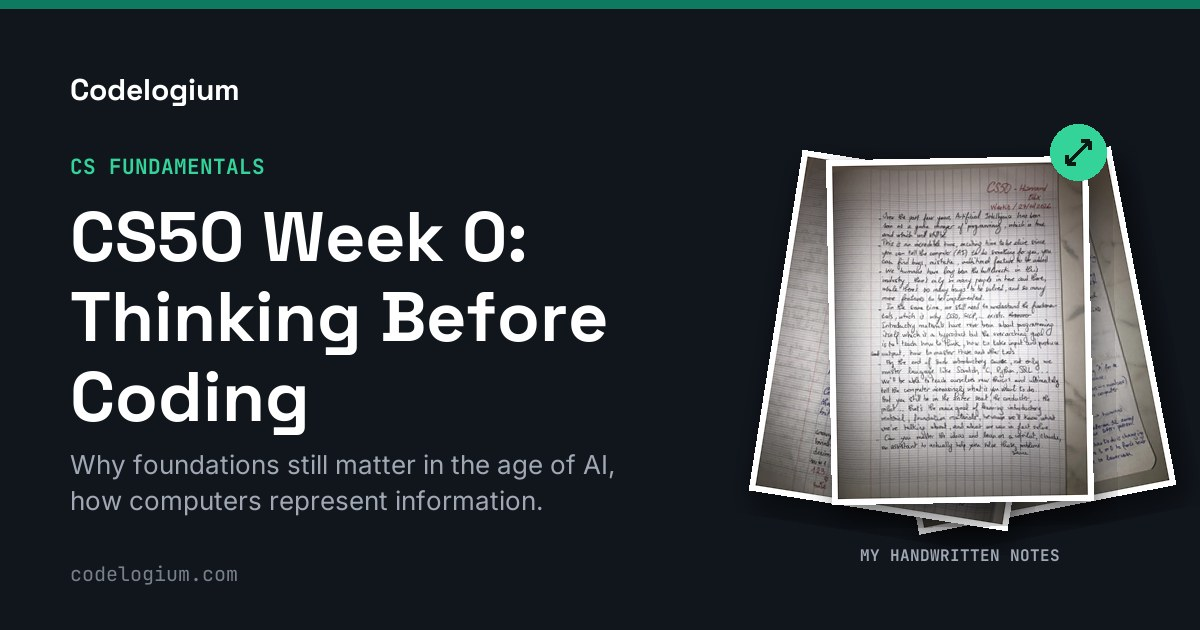
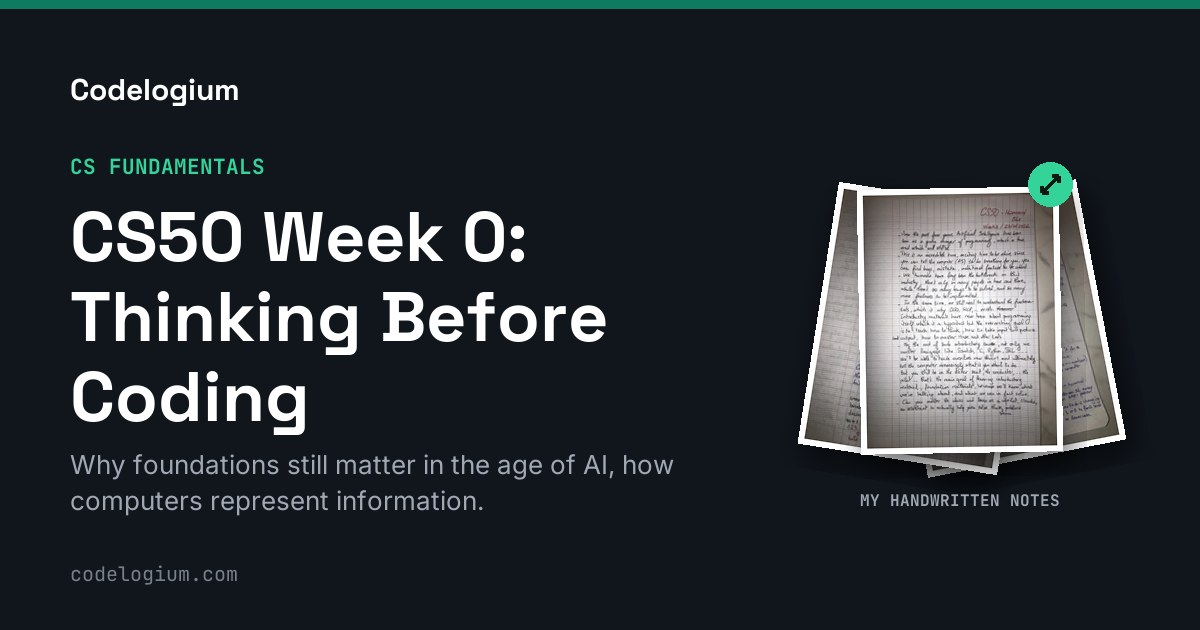
fix: smaller notes deck in share images

diff --git a/templates/tools.py b/templates/tools.py
@@ -213,8 +213,8 @@ def share(page):
     d.text((70, H - 70), "codelogium.com", font=f_url, fill=dim)
 
     # Three notebook pages fanned out, like the hero deck
-    cx, cy, pw, ph = 960, 330, 250, 333
-    for i, ang, dx, dy in [(3, 11, 55, 10), (2, -9, -55, 10), (1, 1, 0, 0)]:
+    cx, cy, pw, ph = 960, 320, 190, 253
+    for i, ang, dx, dy in [(3, 11, 42, 8), (2, -9, -42, 8), (1, 1, 0, 0)]:
         if not (assets / f"page-{i}.webp").exists():
             continue
         p = Image.open(assets / f"page-{i}.webp").convert("RGB")
@@ -230,13 +230,13 @@ def share(page):
 
     # Expand badge (two diagonal arrows) and label
     d = ImageDraw.Draw(im)
-    bx, by, dk = cx + 118, cy - 178, (11, 26, 20)
-    d.ellipse([bx - 28, by - 28, bx + 28, by + 28], fill=green)
+    bx, by, dk = cx + 90, cy - 136, (11, 26, 20)
+    d.ellipse([bx - 22, by - 22, bx + 22, by + 22], fill=green)
     for s in (1, -1):
-        d.line([bx, by, bx + 11 * s, by - 11 * s], fill=dk, width=4)
-        d.line([bx + 11 * s, by - 11 * s, bx + 3 * s, by - 11 * s], fill=dk, width=4)
-        d.line([bx + 11 * s, by - 11 * s, bx + 11 * s, by - 3 * s], fill=dk, width=4)
-    d.text((cx, cy + 225), "MY HANDWRITTEN NOTES", font=f_lab, fill=grey, anchor="mm")
+        d.line([bx, by, bx + 8 * s, by - 8 * s], fill=dk, width=4)
+        d.line([bx + 8 * s, by - 8 * s, bx + 2 * s, by - 8 * s], fill=dk, width=4)
+        d.line([bx + 8 * s, by - 8 * s, bx + 8 * s, by - 2 * s], fill=dk, width=4)
+    d.text((cx, cy + 180), "MY HANDWRITTEN NOTES", font=f_lab, fill=grey, anchor="mm")
 
     out = assets / "share.jpg"
     im.save(out, quality=88, optimize=True)
